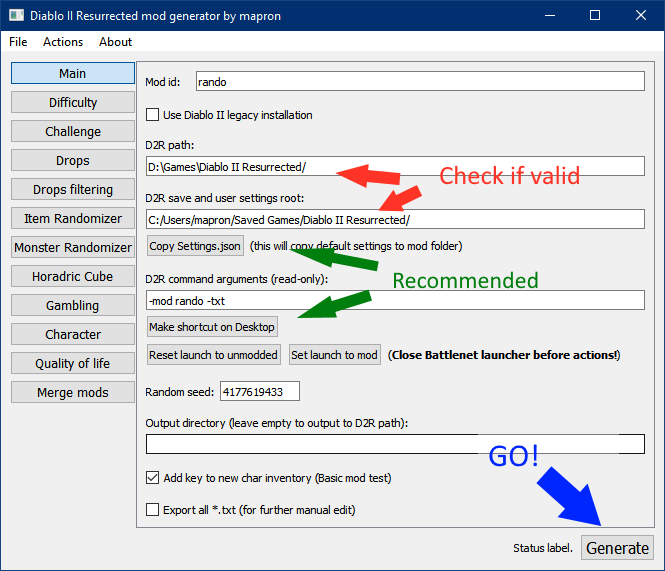
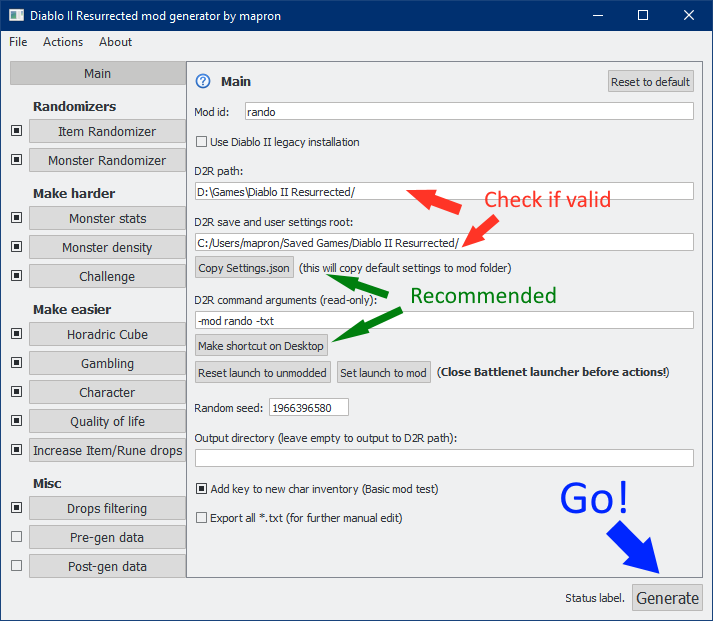
Updated screenshots.

diff --git a/README.md b/README.md
@@ -51,37 +51,41 @@ A lot of features enabled here - more Boss drops, increased Uniques/drop count/R
 4. You can check "Export all .txt" checkbox, and have you own mod setup instead (mod folder is filled by D2R internal files).
 
 # Feature tabs
-For each tab, just click or hover over question button (?) to get help about features on each page.
+For each tab, just click or hover over question button (?) to get help about features on each page.  
+Also, as you noticed, support for Dark and Light theme is available - choose what you prefer in Actions -> Theme.
 
-#### Difficulty settings.  
-![Difficulty](docs/tab_difficulty.png)  
+#### Randomize items  
+![Randomize items](docs/tab_random_items.png)  
 
-#### Challenge difficulty.  
-![Challenge](docs/tab_challenge.png)  
+#### Randomize monsters  
+![Randomize monsters](docs/tab_random_monsters.png)  
 
-#### Drops improvement.  
-![Drops](docs/tab_drops.png)  
+#### Change monster stats  
+![monster stats](docs/tab_harder_stats.png)  
 
-#### Drop filter.  
-![Drop filter](docs/tab_drop_filtering.png)  
+#### Increase monster and elites density
+![monster density](docs/tab_harder_density.png)  
 
-#### Item randomizer.
-![Randomizer](docs/tab_random.png)  
+#### Challenge difficulty  
+![Challenge](docs/tab_harder_challenge.png)  
 
-#### Monster randomizer.
-![MonsterRandomizer](docs/tab_random_monsters.png)  
+#### Cube recipes to blaze through  
+![Horadric Cube](docs/tab_easy_cube.png)  
 
-#### Horadric cube.
-![Horadric](docs/tab_horadric.png)  
+#### Easier Gambling
+![Gambling](docs/tab_easy_gamble.png)  
 
-#### Gambling.
-![Gambling](docs/tab_gamble.png)  
+#### Character
+![Character](docs/tab_easy_character.png)  
 
-#### Character.
-![Character](docs/tab_char.png)  
+#### Quality of life
+![Qol](docs/tab_easy_qol.png)  
 
-#### Quality of life.
-![Qol](docs/tab_qol.png)  
+#### Increase item drops
+![Drops](docs/tab_easy_drops.png)  
+
+#### Filter your drops
+![Drops filter](docs/tab_misc_filter.png)  
 
 
 # Using commandline
